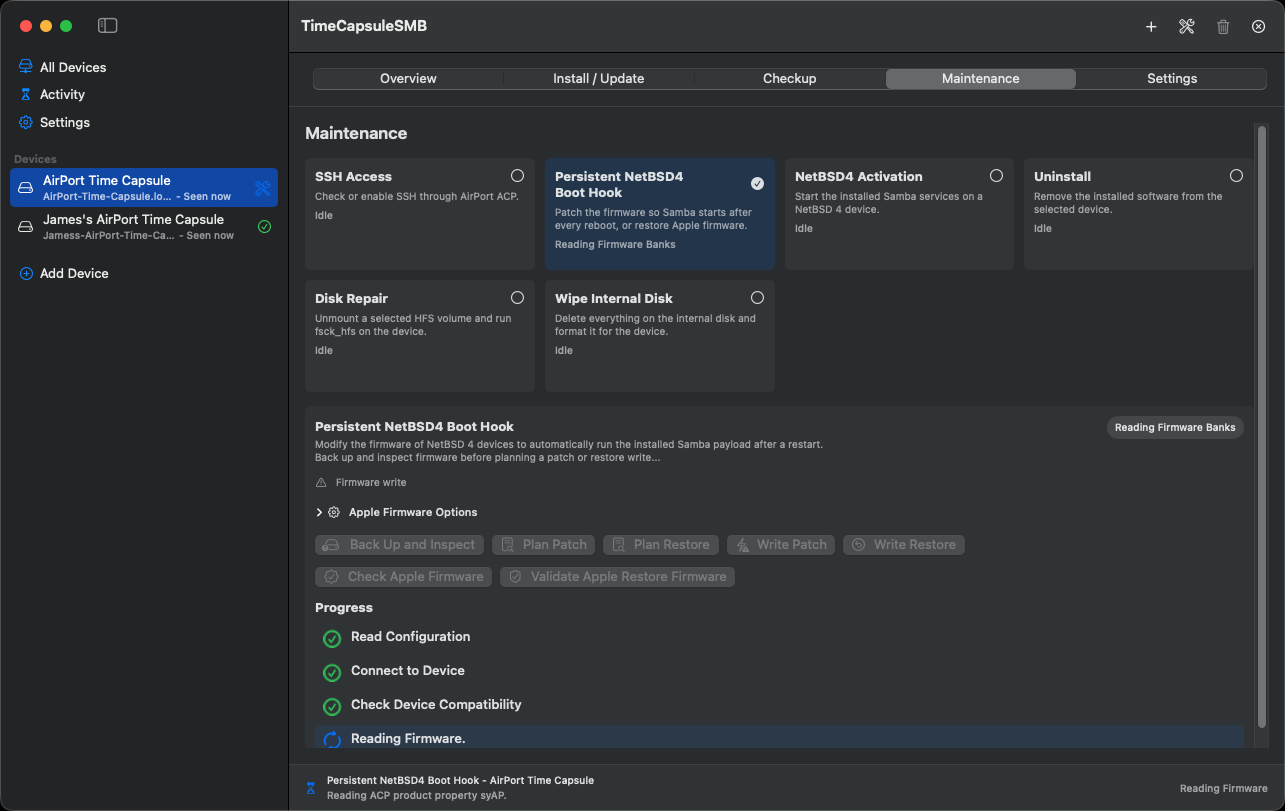
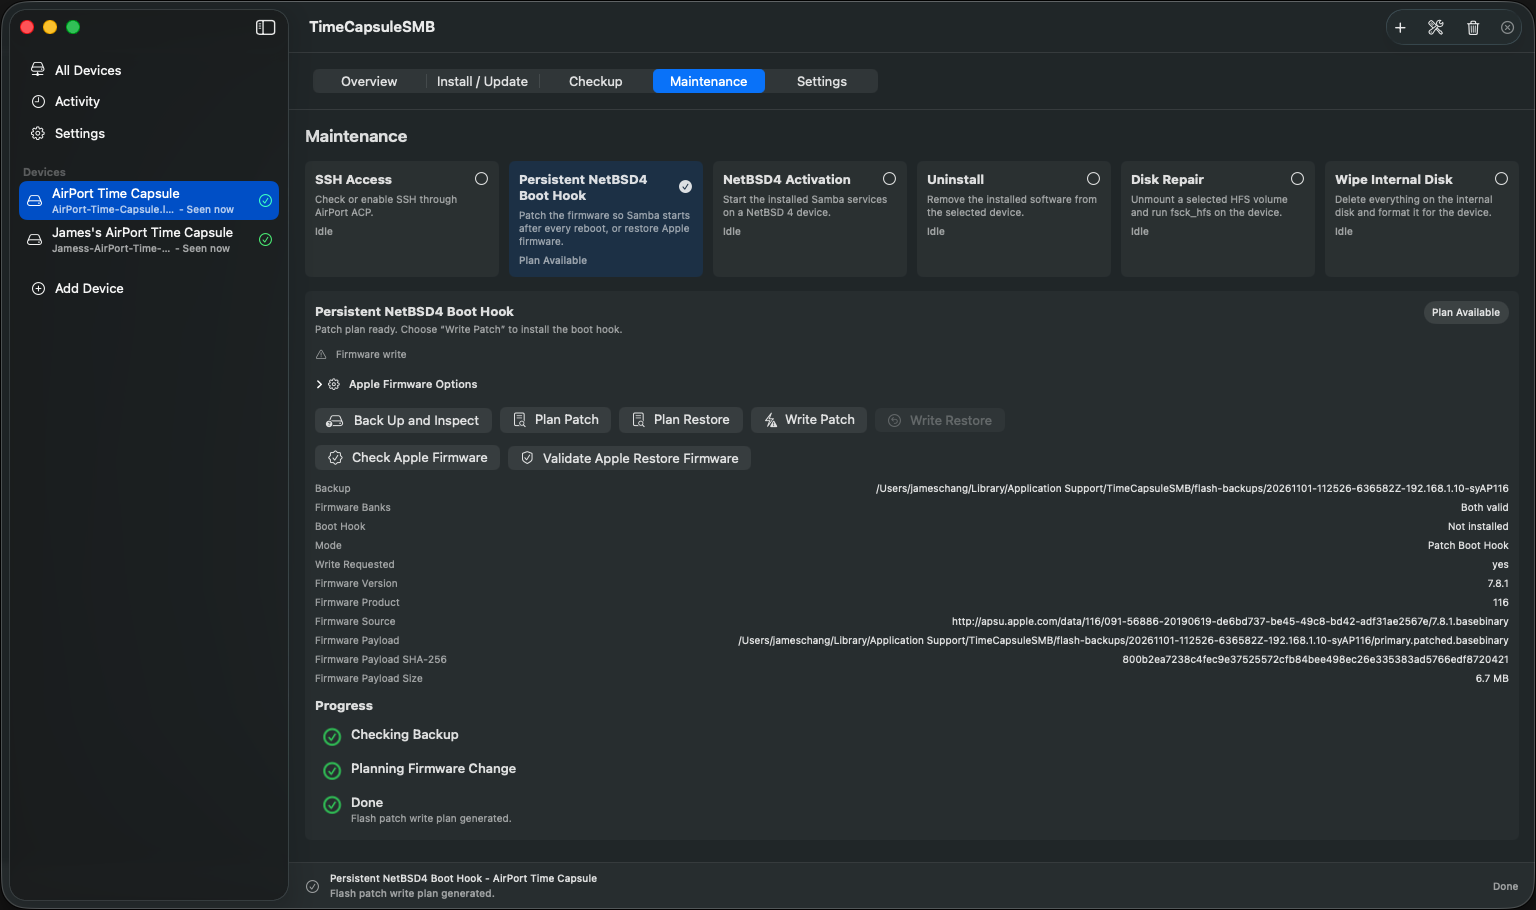
Replace the boot hook screenshot on the website and in the README

diff --git a/docs/index.html b/docs/index.html
@@ -309,8 +309,8 @@
           <p>Older Time Capsules need a small firmware patch to start Samba by themselves after a restart. After installing, click Open Boot Hook, or select the Persistent NetBSD4 Boot Hook card on the Maintenance tab. Then click Back Up and Inspect, then Plan Patch, then Write Patch. Keep the Time Capsule plugged in while it writes: losing power in the middle can leave it unable to start.</p>
           <p>If you skip the patch, select NetBSD4 Activation on the Maintenance tab and click Activate after every restart instead.</p>
           <figure>
-            <img src="assets/boot-hook.png" alt="The Maintenance tab with the Persistent NetBSD4 Boot Hook card selected, reading the firmware banks during Back Up and Inspect" width="1285" height="811" loading="lazy">
-            <figcaption>The boot hook card during Back Up and Inspect.</figcaption>
+            <img src="assets/boot-hook.png" alt="The Maintenance tab with the Persistent NetBSD4 Boot Hook card selected, showing the firmware details and Plan Available after Plan Patch" width="1536" height="910" loading="lazy">
+            <figcaption>The boot hook card after Plan Patch. Write Patch flashes the plan to the Time Capsule.</figcaption>
           </figure>
         </div></li>
         <li><div>

diff --git a/README.md b/README.md
@@ -66,7 +66,7 @@ Also, if you are an expert and want to DIY the install, you can copy the binary 
     - **There are reports the device may reset during a deploy, see [this issue](https://github.com/jamesyc/TimeCapsuleSMB/issues/177) for more information.**
     - **Do not be worried if the device resets! YOUR DATA ON THE HARD DRIVE IS SAFE.** Only the Apple configuration settings (WiFi name, password, etc) will be reset. You just need to set it up again and it will work fine.
 9. (For gen 1-4 devices only) After installing, click "Open Boot Hook", or select the "Persistent NetBSD4 Boot Hook" card on the Maintenance tab. Install the firmware patch to allow the device to automatically start Samba after reboots. Click "Back Up and Inspect" and "Plan Patch" to check if it can be installed; then run "Write Patch" to flash it to your device.    
-   <img width="634" height="429" alt="image" src="https://github.com/user-attachments/assets/e35d8934-975b-4079-8087-8c22984a3165" />
+   <img width="800" height="474" alt="image" src="docs/assets/boot-hook.png" />
 10. (Optional) Wait 5-10 minutes for Samba to fully start up, then go to the Checkup tab and run a Checkup.
 11. Delete the old AFP servers listed in macOS Time Machine settings. Then add the new Samba server destination. *This step will not delete your old backups from the disk.*
 
